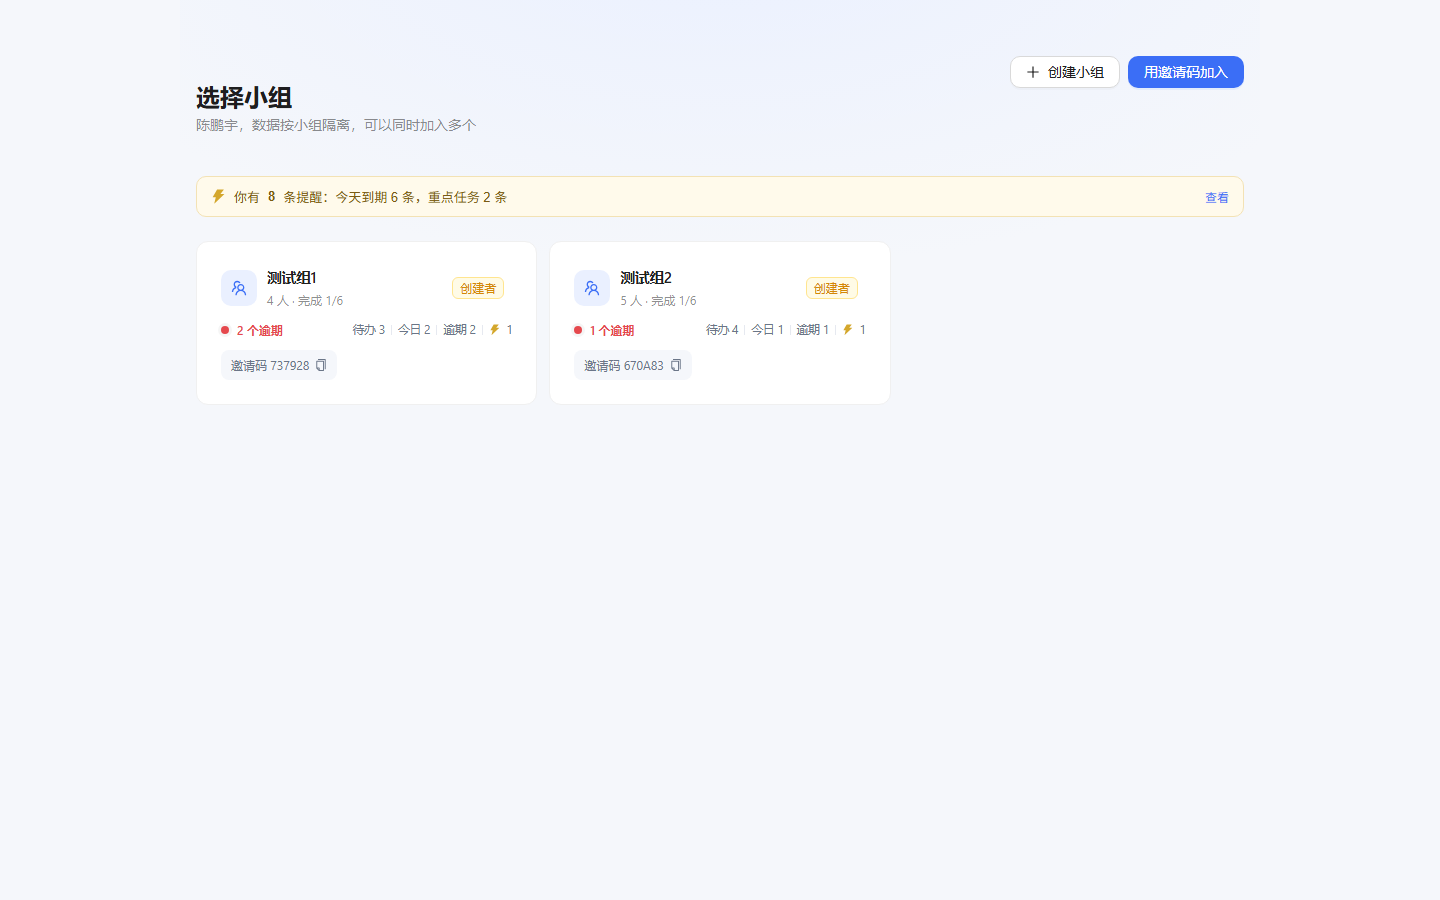
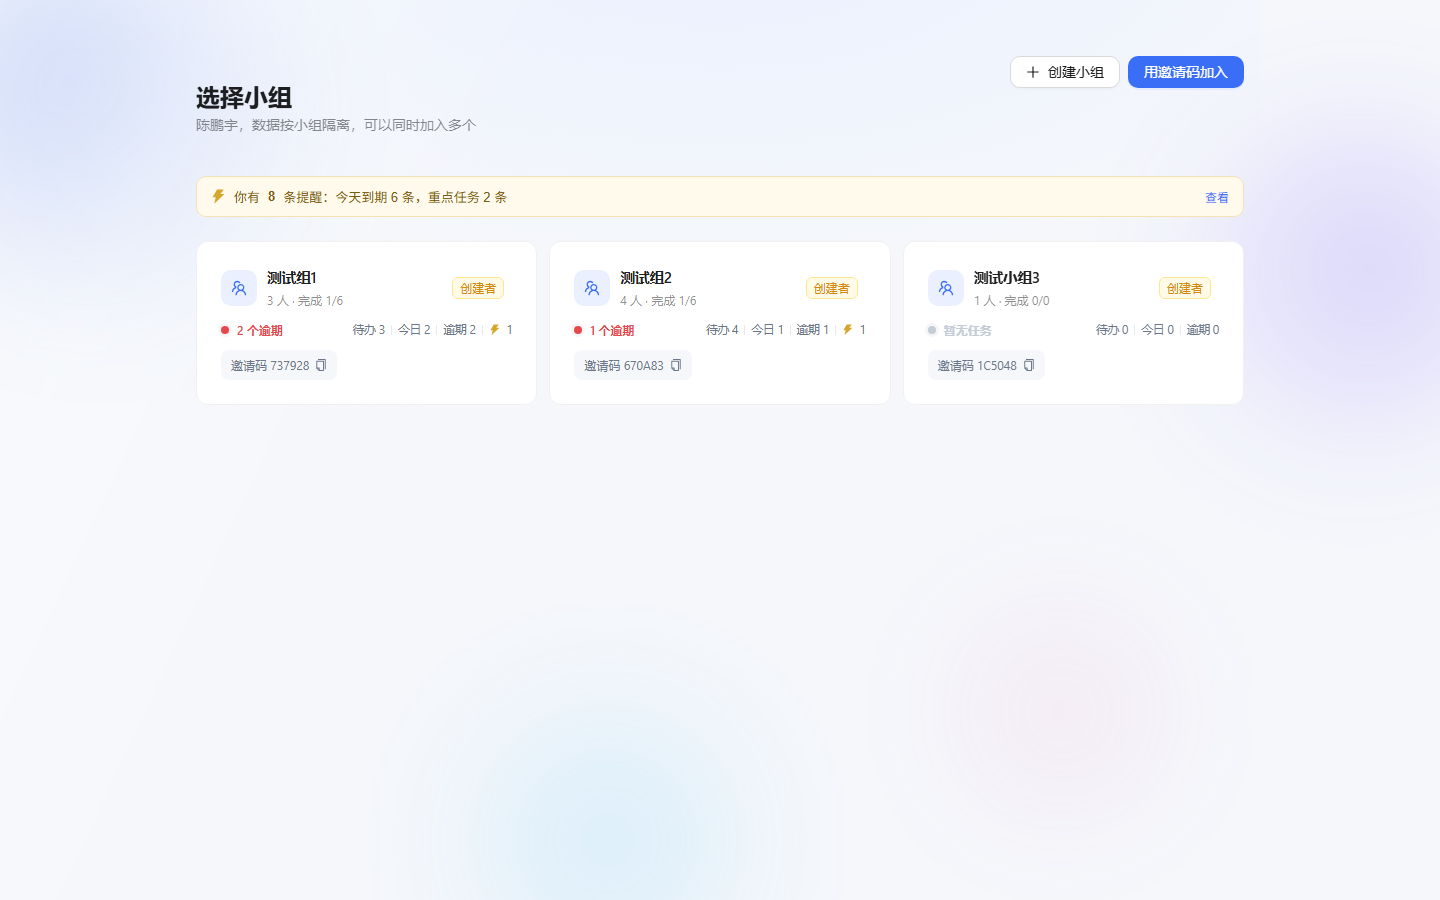
feat: 登录页与选组页共用动态极光背景
- 抽出 AuroraBackground 组件：4 个模糊色块独立漂移 + 一层斜向流光
- 背景改为 fixed 铺满视口，选组页不再只覆盖中间 1080px
- 只动 transform/opacity，移动端模糊半径降到 48px
- 尊重 prefers-reduced-motion

diff --git a/src/styles/global.css b/src/styles/global.css
@@ -2476,57 +2476,153 @@ html[data-theme='dark'] .alert-banner {
   overflow: hidden;
 }
 
-.auth-blobs {
-  position: absolute;
+.aurora {
+  position: fixed;
   inset: 0;
+  overflow: hidden;
   pointer-events: none;
   z-index: 0;
 }
 
-.blob {
+/* 页面上除背景以外的内容都压在上层 */
+.auth-page > *:not(.aurora) {
+  position: relative;
+  z-index: 1;
+}
+
+.aurora-blob {
   position: absolute;
   border-radius: 50%;
-  filter: blur(60px);
-  opacity: 0.55;
-  animation: blobFloat 26s ease-in-out infinite;
+  filter: blur(64px);
+  opacity: 0.5;
+  will-change: transform;
 }
 
-.blob-1 {
-  width: 320px;
-  height: 320px;
-  left: -60px;
-  top: -40px;
-  background: rgba(59, 110, 246, 0.35);
+.aurora-1 {
+  width: 340px;
+  height: 340px;
+  left: -80px;
+  top: -60px;
+  background: radial-gradient(circle at 30% 30%, rgba(59, 110, 246, 0.55), rgba(59, 110, 246, 0));
+  animation: auroraDrift1 30s ease-in-out infinite;
 }
 
-.blob-2 {
-  width: 280px;
-  height: 280px;
-  right: -50px;
-  top: 18%;
-  background: rgba(124, 92, 255, 0.28);
-  animation-delay: -6s;
+.aurora-2 {
+  width: 300px;
+  height: 300px;
+  right: -70px;
+  top: 14%;
+  background: radial-gradient(circle at 60% 40%, rgba(124, 92, 255, 0.5), rgba(124, 92, 255, 0));
+  animation: auroraDrift2 38s ease-in-out infinite;
 }
 
-.blob-3 {
-  width: 240px;
-  height: 240px;
-  left: 35%;
-  bottom: -80px;
-  background: rgba(59, 196, 246, 0.22);
-  animation-delay: -12s;
+.aurora-3 {
+  width: 260px;
+  height: 260px;
+  left: 32%;
+  bottom: -90px;
+  background: radial-gradient(circle at 50% 50%, rgba(56, 189, 248, 0.4), rgba(56, 189, 248, 0));
+  animation: auroraDrift3 26s ease-in-out infinite;
 }
 
-@keyframes blobFloat {
+.aurora-4 {
+  width: 220px;
+  height: 220px;
+  right: 18%;
+  bottom: 8%;
+  background: radial-gradient(circle at 50% 50%, rgba(244, 114, 182, 0.28), rgba(244, 114, 182, 0));
+  animation: auroraDrift4 34s ease-in-out infinite;
+}
+
+@keyframes auroraDrift1 {
   0%,
   100% {
     transform: translate3d(0, 0, 0) scale(1);
   }
-  33% {
-    transform: translate3d(24px, -18px, 0) scale(1.06);
+  50% {
+    transform: translate3d(60px, 40px, 0) scale(1.12);
   }
-  66% {
-    transform: translate3d(-18px, 16px, 0) scale(0.96);
+}
+
+@keyframes auroraDrift2 {
+  0%,
+  100% {
+    transform: translate3d(0, 0, 0) scale(1.05);
+  }
+  50% {
+    transform: translate3d(-50px, 60px, 0) scale(0.95);
+  }
+}
+
+@keyframes auroraDrift3 {
+  0%,
+  100% {
+    transform: translate3d(0, 0, 0) scale(1);
+  }
+  50% {
+    transform: translate3d(40px, -50px, 0) scale(1.15);
+  }
+}
+
+@keyframes auroraDrift4 {
+  0%,
+  100% {
+    transform: translate3d(0, 0, 0) scale(0.95);
+  }
+  50% {
+    transform: translate3d(-40px, -30px, 0) scale(1.1);
+  }
+}
+
+/* 一层很淡的斜向流光，让背景"活"起来但不抢内容 */
+.aurora-sheen {
+  position: absolute;
+  inset: -20%;
+  background: linear-gradient(
+    115deg,
+    rgba(255, 255, 255, 0) 35%,
+    rgba(255, 255, 255, 0.35) 50%,
+    rgba(255, 255, 255, 0) 65%
+  );
+  animation: sheenSweep 18s ease-in-out infinite;
+}
+
+html[data-theme='dark'] .aurora-sheen {
+  background: linear-gradient(
+    115deg,
+    rgba(255, 255, 255, 0) 35%,
+    rgba(120, 160, 255, 0.12) 50%,
+    rgba(255, 255, 255, 0) 65%
+  );
+}
+
+@keyframes sheenSweep {
+  0% {
+    transform: translate3d(-60%, 0, 0);
+    opacity: 0;
+  }
+  35% {
+    opacity: 0.9;
+  }
+  70% {
+    opacity: 0;
+  }
+  100% {
+    transform: translate3d(60%, 0, 0);
+    opacity: 0;
+  }
+}
+
+@media (max-width: 767px) {
+  .aurora-blob {
+    filter: blur(48px);
+  }
+}
+
+@media (prefers-reduced-motion: reduce) {
+  .aurora-blob,
+  .aurora-sheen {
+    animation: none !important;
   }
 }
 

diff --git a/src/features/auth/LoginPage.tsx b/src/features/auth/LoginPage.tsx
@@ -2,6 +2,7 @@ import { useCallback, useEffect, useState } from 'react';
 import { Alert, Button, Card, Form, Input, Segmented, Typography } from 'antd';
 import { LockOutlined, SafetyOutlined, UserOutlined } from '@ant-design/icons';
 import { useNavigate } from 'react-router-dom';
+import { AuroraBackground } from '@/components/AuroraBackground';
 import { api } from '@/lib/http';
 import { passwordStrength } from '@/lib/password';
 import { useAuthStore } from '@/store/auth';
@@ -113,11 +114,7 @@ export function LoginPage() {
 
   return (
     <div className={entering === null ? 'auth-page' : 'auth-page is-entering'}>
-      <div className="auth-blobs" aria-hidden="true">
-        <span className="blob blob-1" />
-        <span className="blob blob-2" />
-        <span className="blob blob-3" />
-      </div>
+      <AuroraBackground />
 
       <div className="auth-brand">
         <span className="auth-logo">AI</span>

diff --git a/src/components/AuroraBackground.tsx b/src/components/AuroraBackground.tsx
@@ -1,0 +1,19 @@
+/**
+ * 登录 / 选组页的动态背景。
+ *
+ * 用几张模糊的大色块缓慢漂移，再叠一层很淡的斜向流光：
+ * - 只动 transform 和 opacity，交给合成器，不掉帧
+ * - 元素少（4 个色块 + 1 层流光），手机上也不会明显费电
+ * - 系统开了「减少动态效果」时全部静止
+ */
+export function AuroraBackground() {
+  return (
+    <div className="aurora" aria-hidden="true">
+      <span className="aurora-blob aurora-1" />
+      <span className="aurora-blob aurora-2" />
+      <span className="aurora-blob aurora-3" />
+      <span className="aurora-blob aurora-4" />
+      <span className="aurora-sheen" />
+    </div>
+  );
+}

diff --git a/src/features/groups/GroupsPage.tsx b/src/features/groups/GroupsPage.tsx
@@ -16,6 +16,7 @@ import {
 } from 'antd';
 import { CopyOutlined, PlusOutlined, TeamOutlined, ThunderboltFilled } from '@ant-design/icons';
 import { useNavigate } from 'react-router-dom';
+import { AuroraBackground } from '@/components/AuroraBackground';
 import { api } from '@/lib/http';
 import { cstDayKey, formatCst } from '@/lib/time';
 import { useAuthStore } from '@/store/auth';
@@ -198,6 +199,8 @@ export function GroupsPage() {
 
   return (
     <div className="auth-page groups-page">
+      <AuroraBackground />
+
       <div className="groups-head">
         <div>
           <Typography.Title level={3} style={{ marginBottom: 2 }}>
